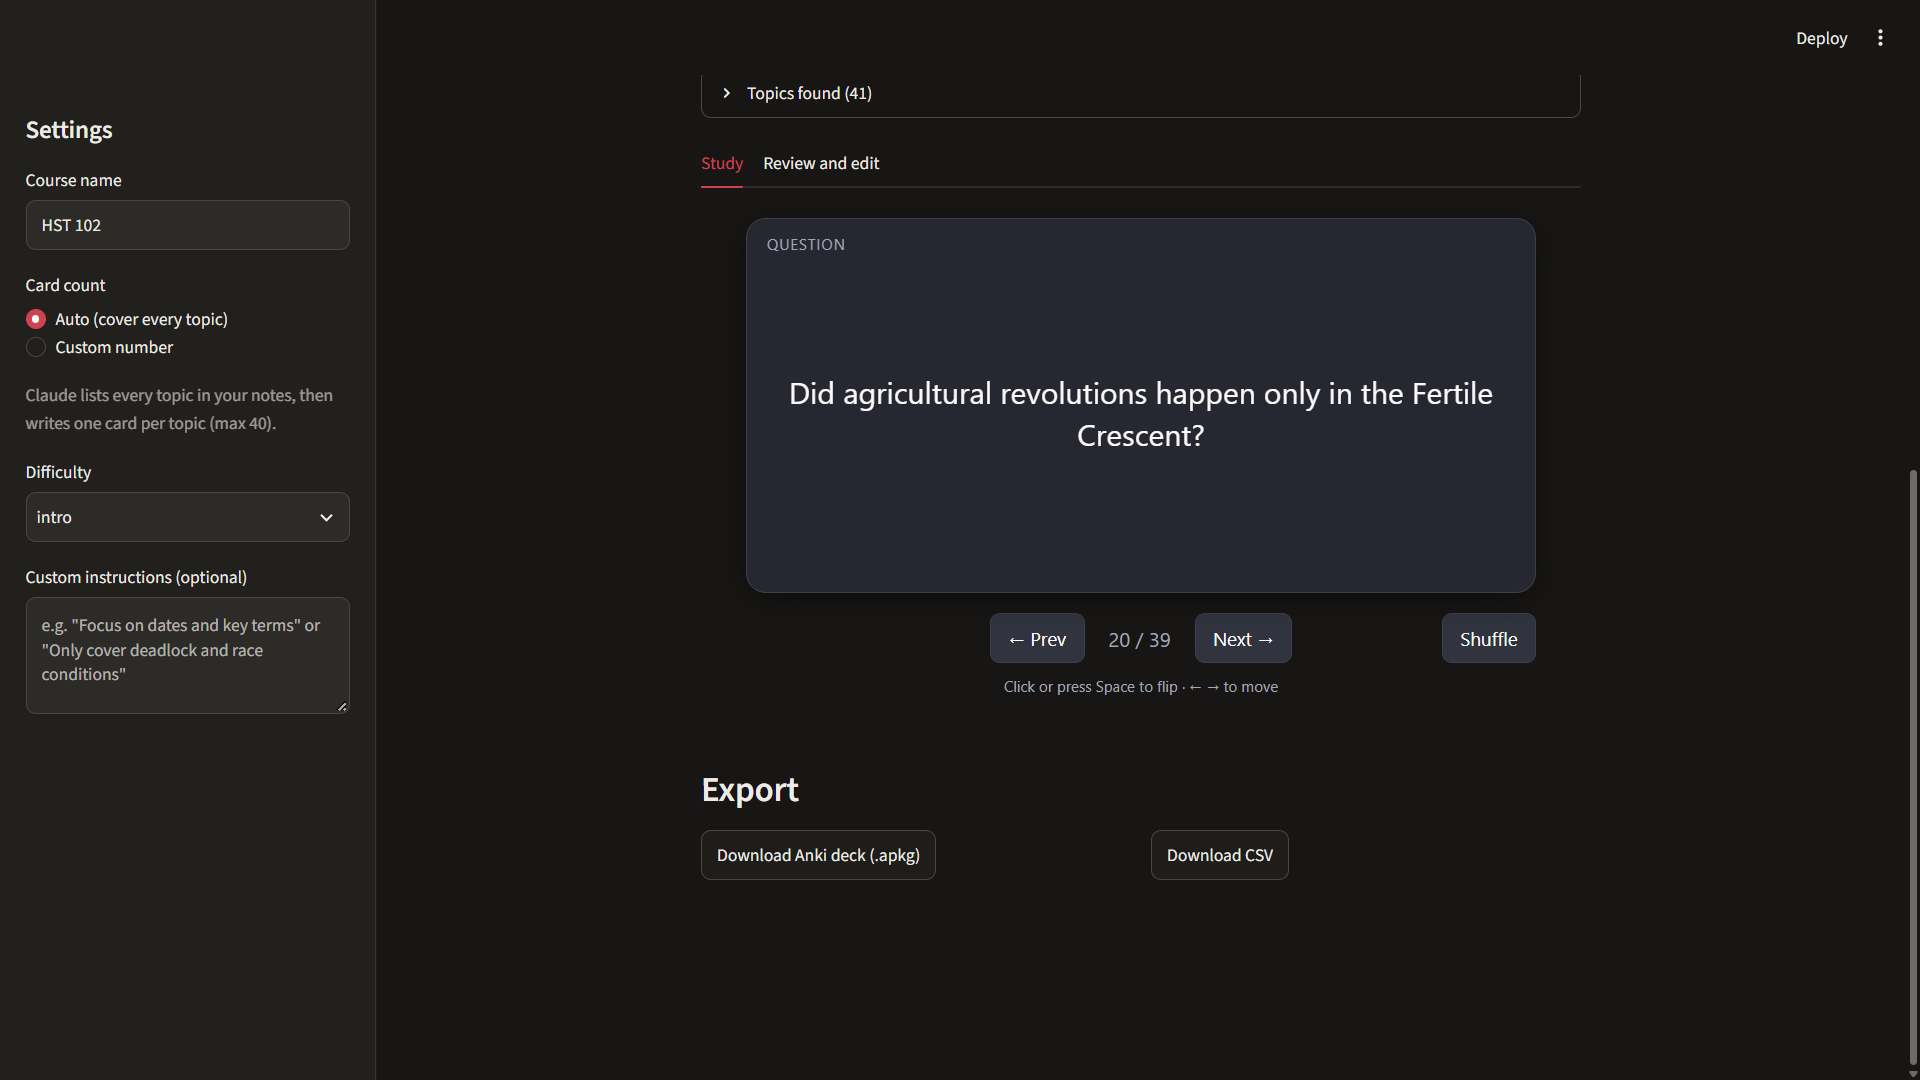
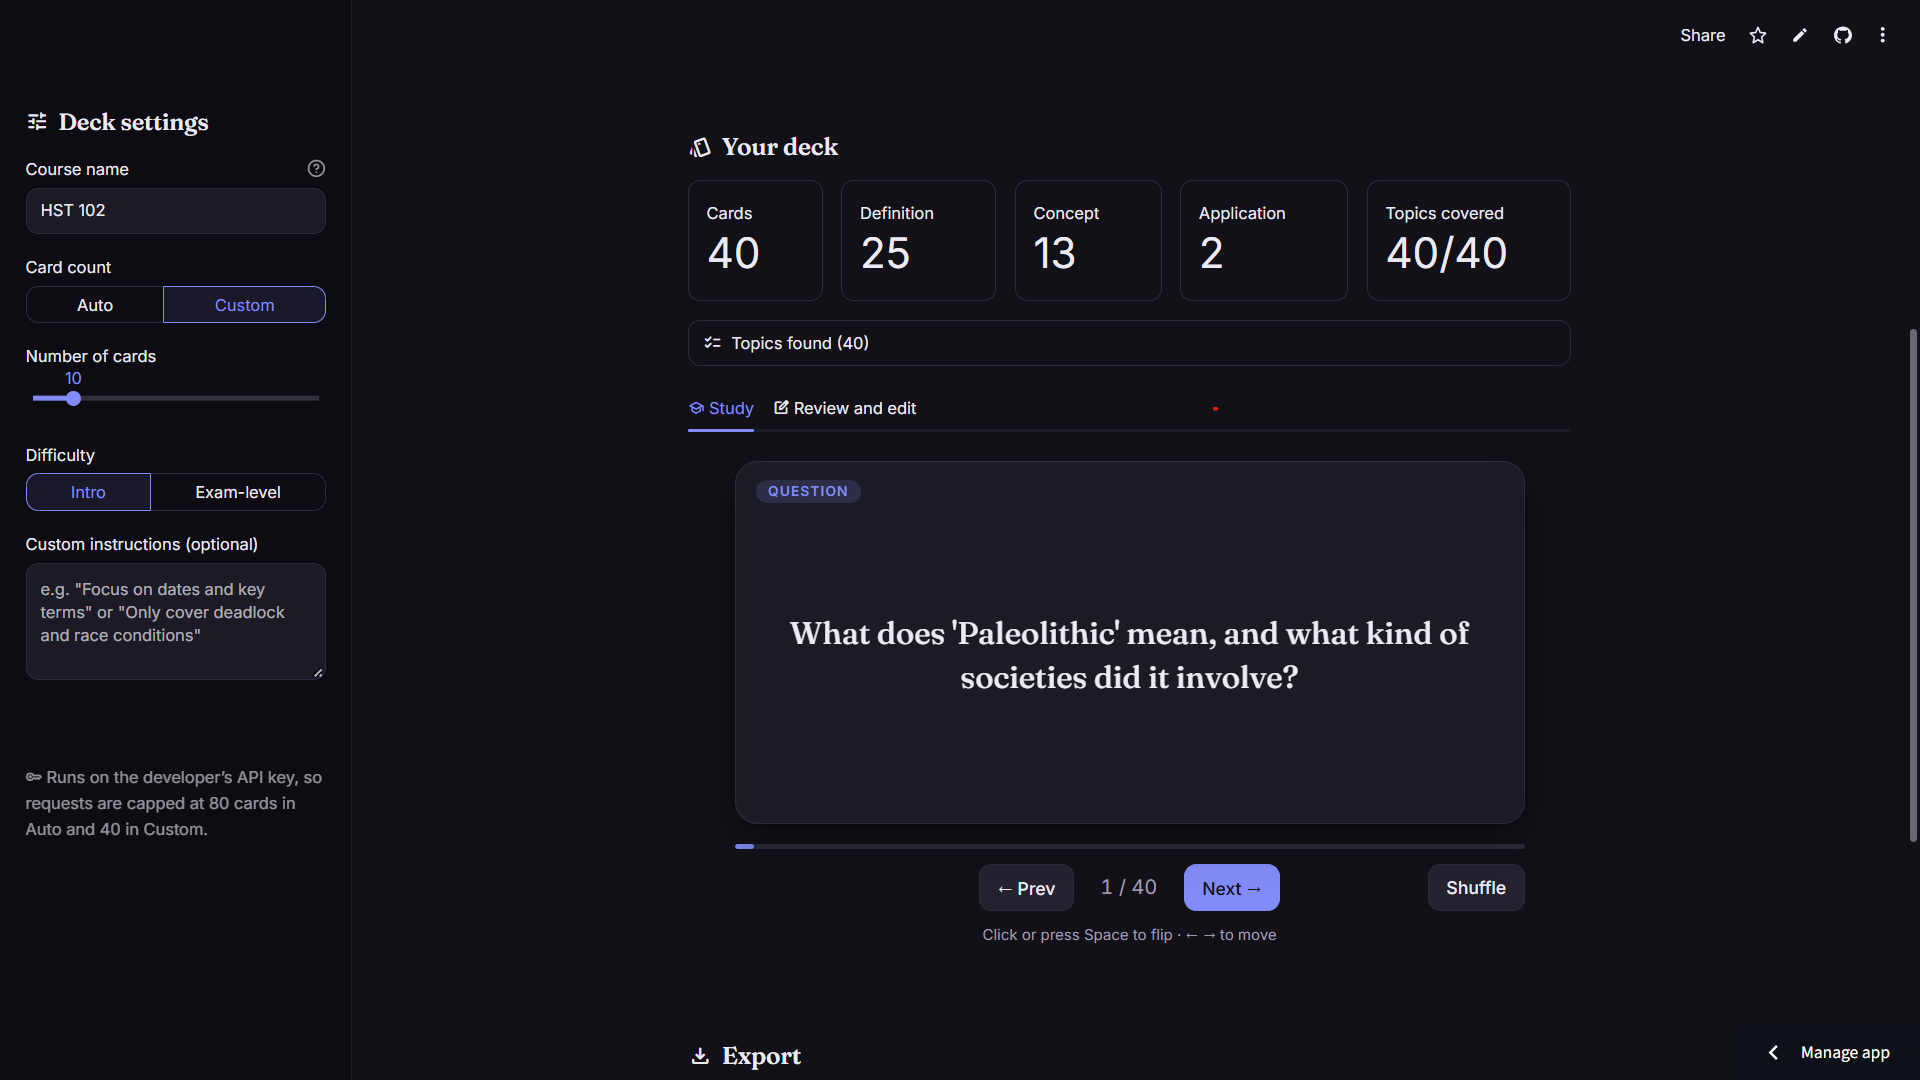
Update README screenshot for the redesigned UI

diff --git a/README.md b/README.md
@@ -4,7 +4,7 @@ Turn messy lecture notes, PDFs, and YouTube transcripts into source-grounded fla
 
 **Live demo:** [Open the app](https://lecture-flashcards-ckr8hemndpmqnbx5tvz2eo.streamlit.app/)
 
-![Study view: a generated HST 102 flashcard with flip, shuffle and keyboard navigation, and the sidebar with Auto mode and custom instructions](docs/screenshot.png)
+![Study view: a generated HST 102 deck with card and topic-coverage stats, a flip card with shuffle and keyboard navigation, and the deck settings sidebar](docs/screenshot.png)
 
 **Built with:** Python, Streamlit, Claude API, pydantic, pypdf, genanki, pandas, pytest
 
